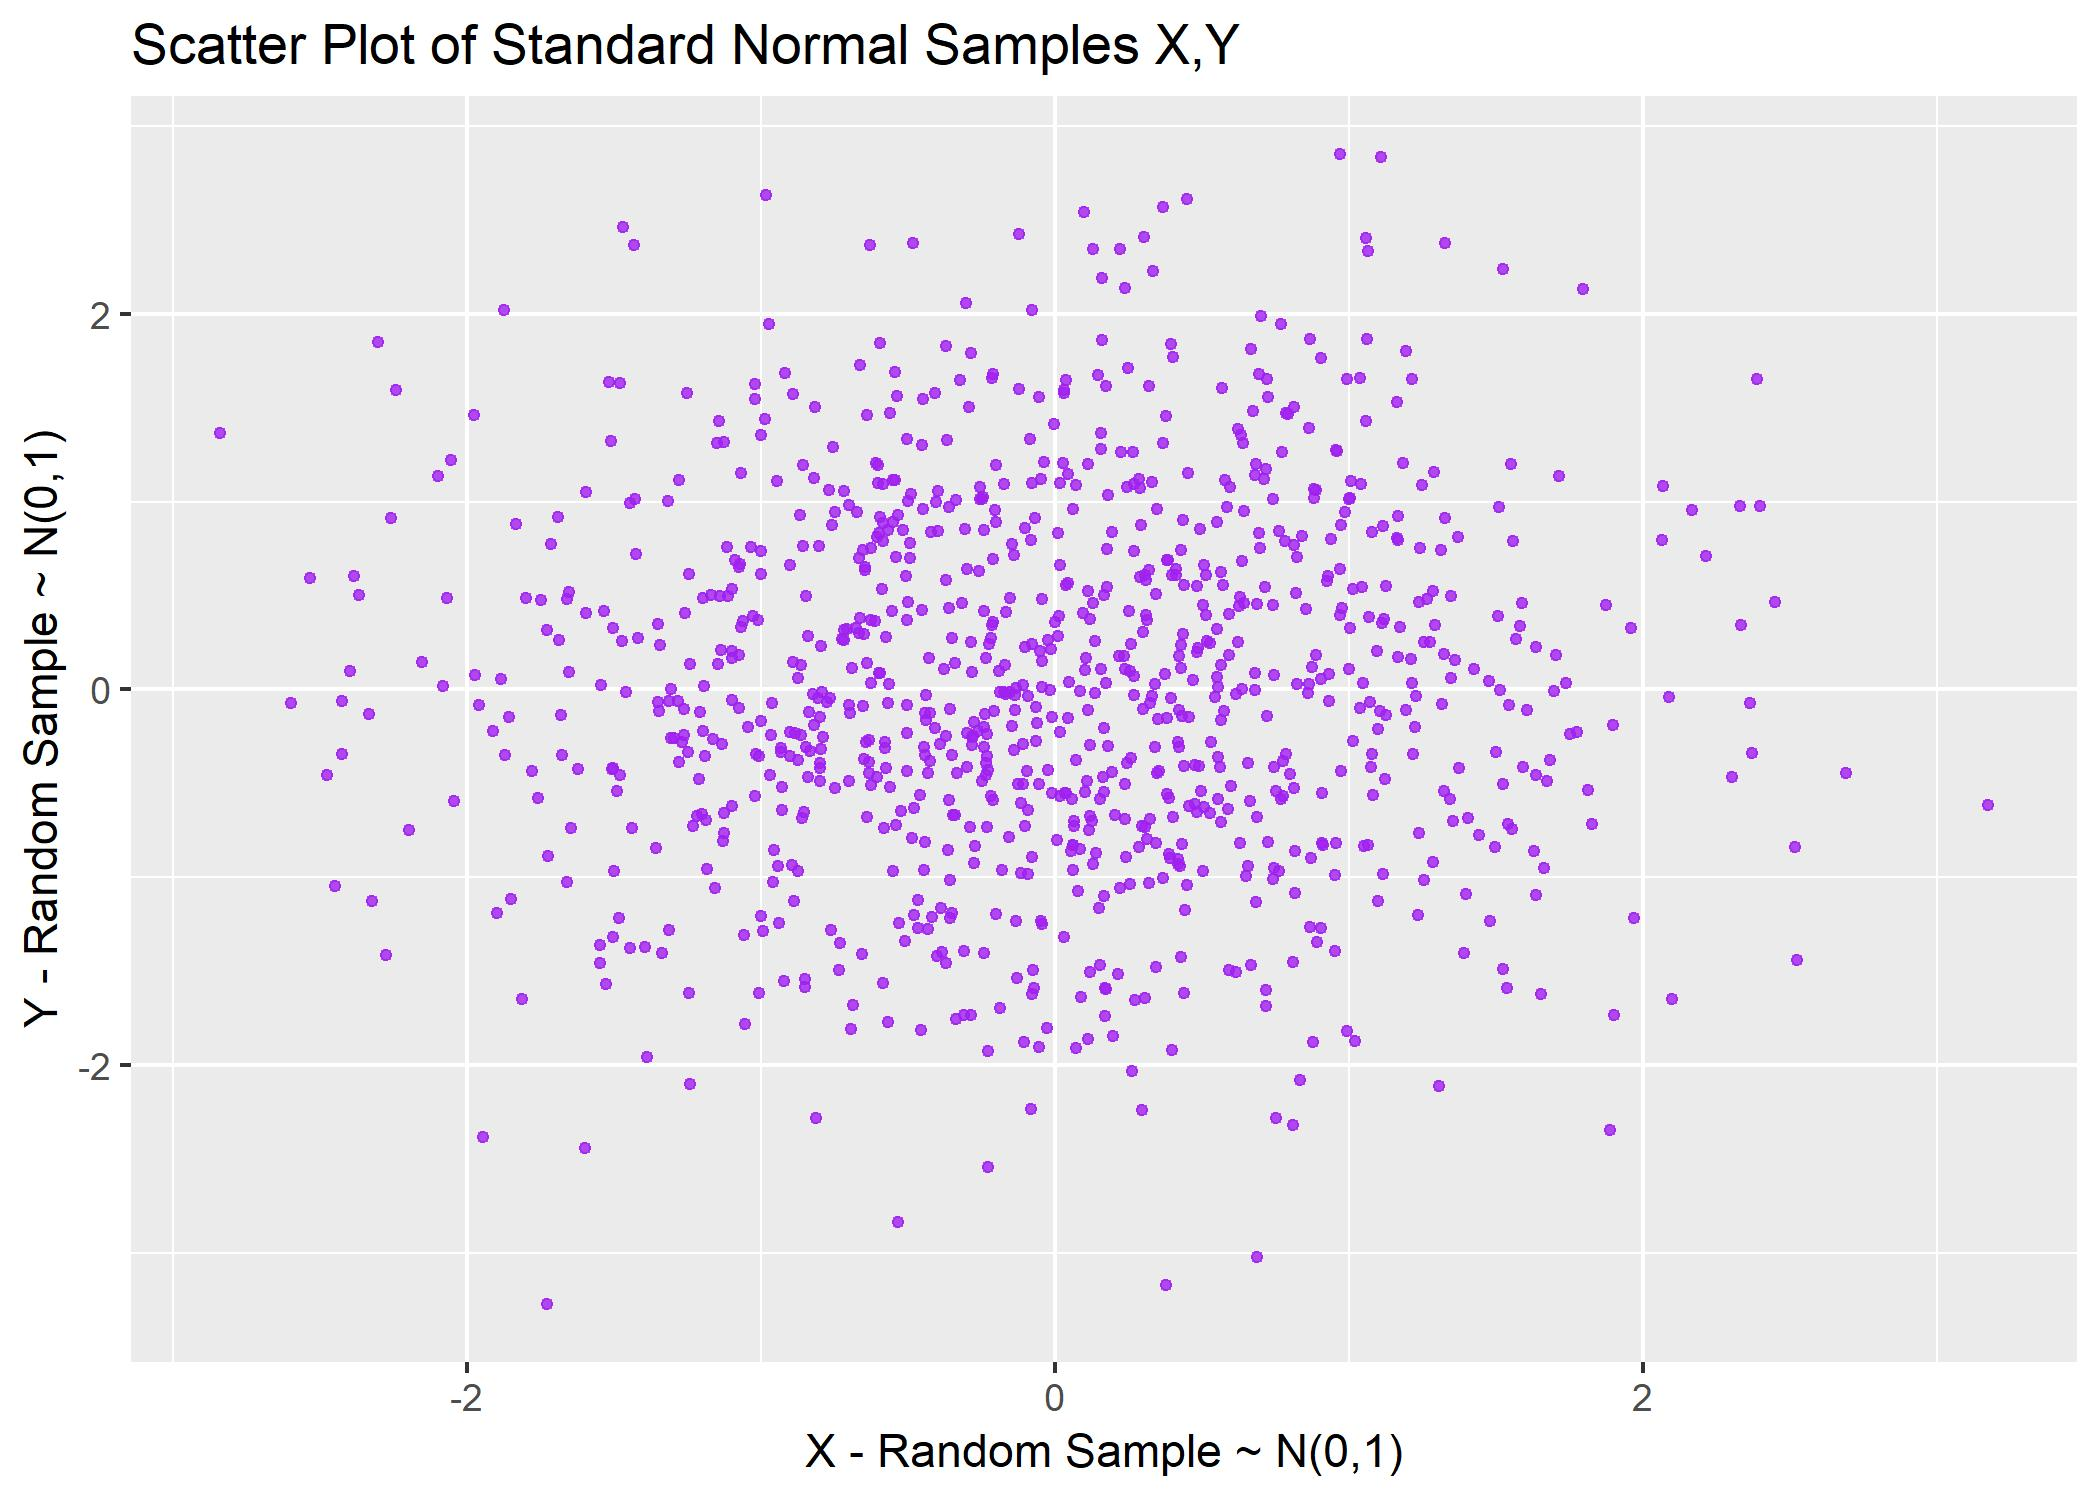
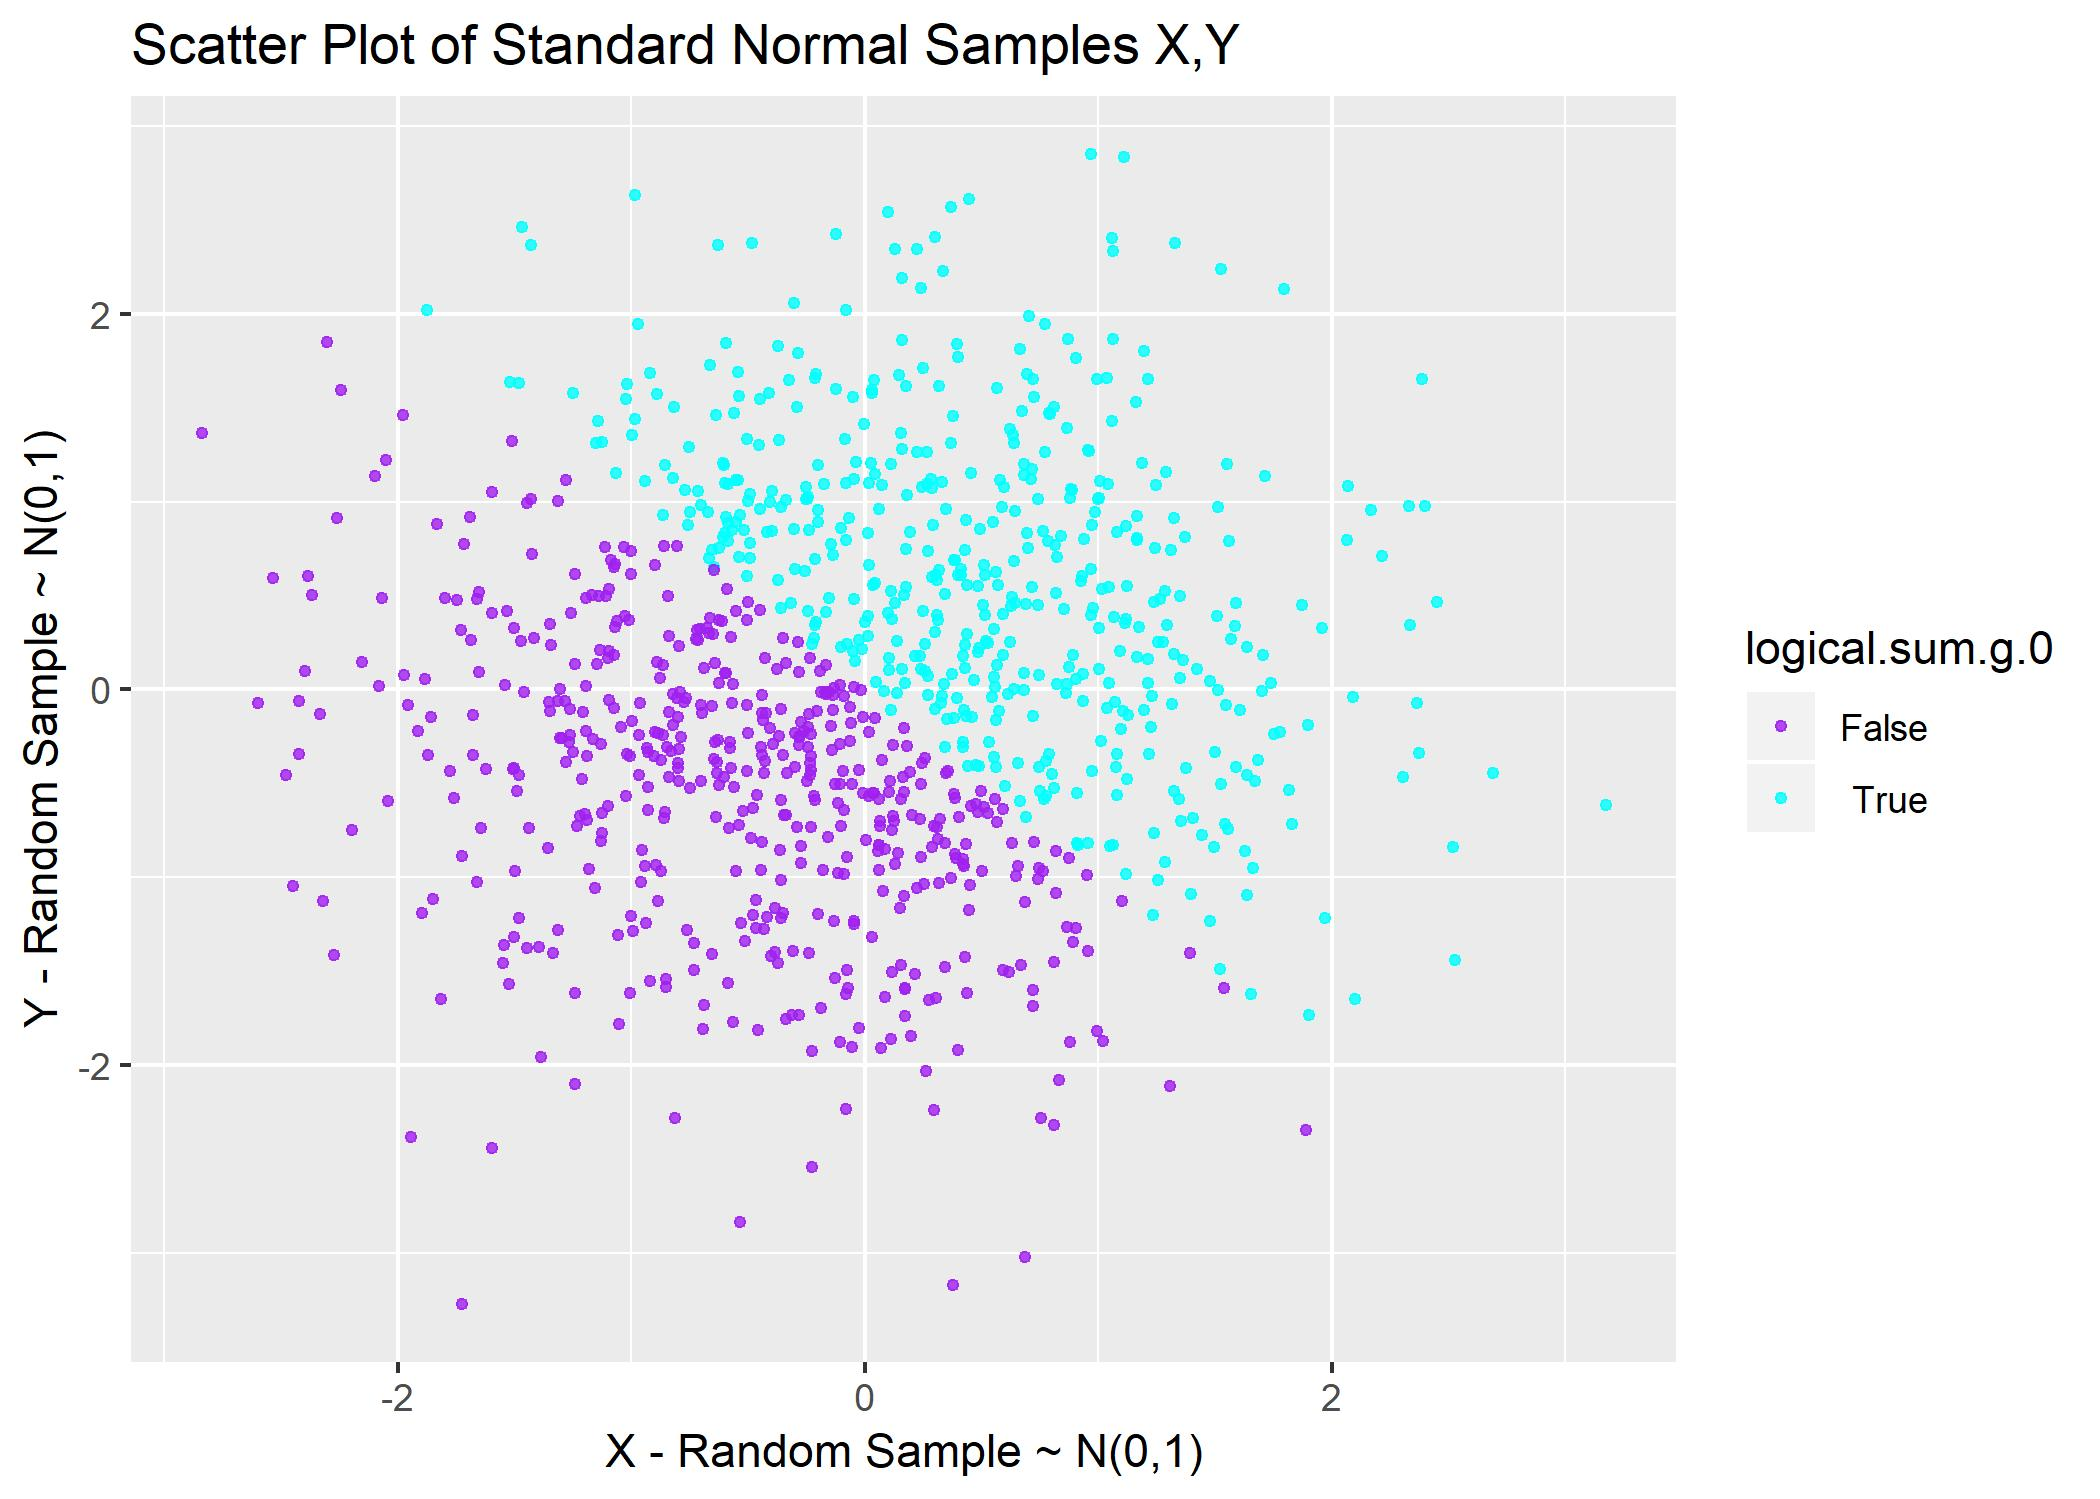
Fixing the first plot, misread prompt. Also changing colours to be relatively consistent across all 3 plots.

diff --git a/p8105_hw1_qn2119.md b/p8105_hw1_qn2119.md
@@ -109,7 +109,9 @@ Next we shall produce a scatter plots of `y ~ x`, with different colorings by th
 #Here we are making a generic scatter plot of x, y from standard.norm.df using ggplot2
 gg.scatter.x.y <- standard.normal.df %>%
   ggplot() +
-  geom_point(aes(x, y), colour = "purple", alpha = 0.8, size = 1) +
+  geom_point(aes(x, y, colour = logical.sum.g.0), alpha = 0.8, size = 1) +
+    scale_colour_manual(values = c("purple", "cyan"),
+                      labels = expression("False", "True")) +
   ylab("Y - Random Sample ~ N(0,1)") +
   xlab("X - Random Sample ~ N(0,1)") +
   ggtitle("Scatter Plot of Standard Normal Samples X,Y")
@@ -148,9 +150,8 @@ gg.scatter.x.y.numeric
 gg.scatter.x.y.factor <- standard.normal.df %>%
   ggplot() +
   geom_point(aes(x, y, color = factor.logical), alpha = 0.8, size = 1) +
-  scale_colour_manual(values = c("maroon", "darkblue"),
-                      labels = expression("False", "True")
-                      ) +
+  scale_colour_manual(values = c("purple", "cyan"),
+                      labels = expression("False", "True")) +
   ylab("Y - Random Sample ~ N(0,1)") +
   xlab("X - Random Sample ~ N(0,1)") +
   ggtitle("Scatter Plot of Standard Normal Samples X,Y; Colored by Factor Logical")
